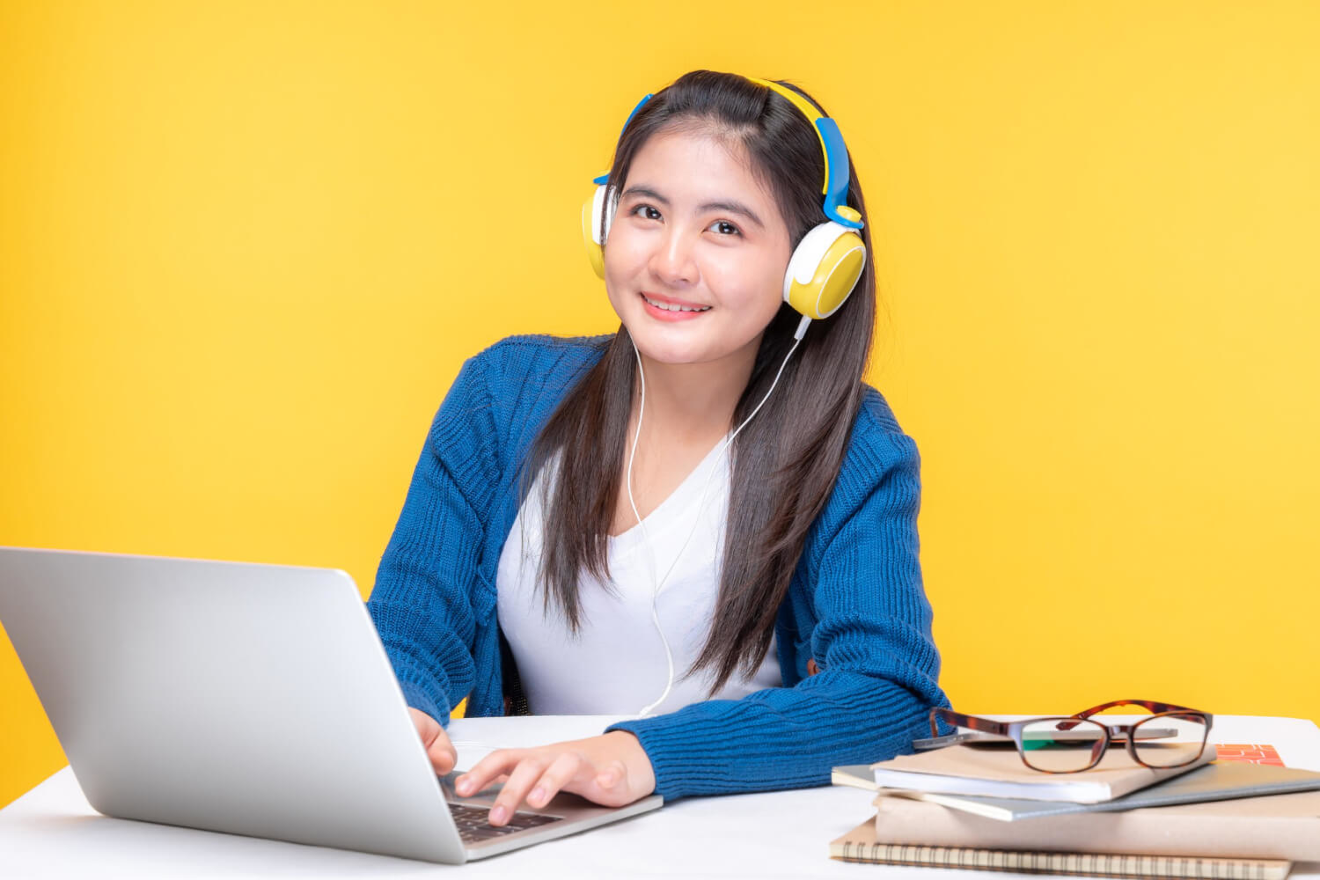
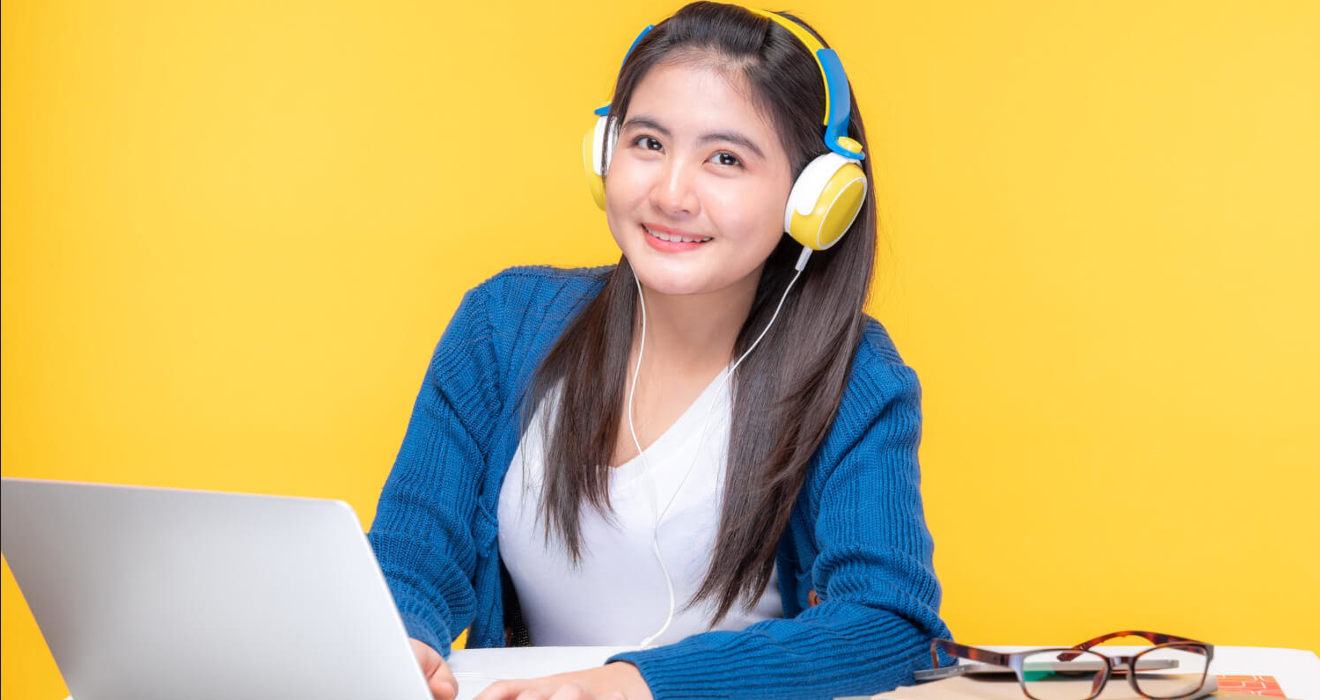
complete images slider section

diff --git a/index.html b/index.html
@@ -11,6 +11,7 @@
     <link rel="stylesheet" href="./css/style.css">
 </head>
 <body class="container">
+    <!-- header start here -->
     <header>
         <!-- navbar start here -->
         <nav class="navbar navbar-expand-lg bg-light fixed-top">
@@ -44,7 +45,57 @@
             </div>
         </nav>
         <!-- navbar end here -->
+
+        <!-- images slider start here -->
+        <section class="margin-top mb-5">
+            <div id="carouselExampleCaptions" class="carousel slide" data-bs-ride="false">
+                <div class="carousel-indicators">
+                    <button type="button" data-bs-target="#carouselExampleCaptions" data-bs-slide-to="0" class="active"
+                        aria-current="true" aria-label="Slide 1"></button>
+                    <button type="button" data-bs-target="#carouselExampleCaptions" data-bs-slide-to="1"
+                        aria-label="Slide 2"></button>
+                    <button type="button" data-bs-target="#carouselExampleCaptions" data-bs-slide-to="2"
+                        aria-label="Slide 3"></button>
+                </div>
+                <div class="carousel-inner">
+                    <div class="carousel-item active">
+                        <img style="filter: brightness(40%);" src="./images/cover/cover-1.png" class="d-block img-fluid" alt="...">
+                        <div class="carousel-caption">
+                            <h1>Get Started Digital Learning</h1>
+                            <p>We offer you a huge amount of our premium video content.</p>
+                            <button class="btn btn-info text-light">Get Started</button>
+                        </div>
+                    </div>
+                    <div class="carousel-item active">
+                        <img style="filter: brightness(40%);" src="./images/cover/cover-2.png" class="d-block img-fluid" alt="...">
+                        <div class="carousel-caption">
+                            <h1>Get Started Digital Learning</h1>
+                            <p>We offer you a huge amount of our premium video content.</p>
+                            <button class="btn btn-info text-light">Get Started</button>
+                        </div>
+                    </div>
+                    <div class="carousel-item active">
+                        <img style="filter: brightness(40%);" src="./images/cover/cover-3.jpg" class="d-block img-fluid" alt="...">
+                        <div class="carousel-caption">
+                            <h1>Get Started Digital Learning</h1>
+                            <p>We offer you a huge amount of our premium video content.</p>
+                            <button class="btn btn-info text-light">Get Started</button>
+                        </div>
+                    </div>
+                </div>
+                <button class="carousel-control-prev" type="button" data-bs-target="#carouselExampleCaptions" data-bs-slide="prev">
+                    <span class="carousel-control-prev-icon" aria-hidden="true"></span>
+                    <span class="visually-hidden">Previous</span>
+                </button>
+                <button class="carousel-control-next" type="button" data-bs-target="#carouselExampleCaptions" data-bs-slide="next">
+                    <span class="carousel-control-next-icon" aria-hidden="true"></span>
+                    <span class="visually-hidden">Next</span>
+                </button>
+            </div>
+        </section>
+        <!-- images slider end here -->
     </header>
+    <!-- header end here -->
     <script src="https://cdn.jsdelivr.net/npm/bootstrap@5.2.0/dist/js/bootstrap.bundle.min.js"
         integrity="sha384-A3rJD856KowSb7dwlZdYEkO39Gagi7vIsF0jrRAoQmDKKtQBHUuLZ9AsSv4jD4Xa"
         crossorigin="anonymous"></script>

diff --git a/css/style.css b/css/style.css
@@ -1,3 +1,7 @@
 .font-color{
     color: #3944F7;
 }
+
+.margin-top{
+    margin-top: 5em;
+}
